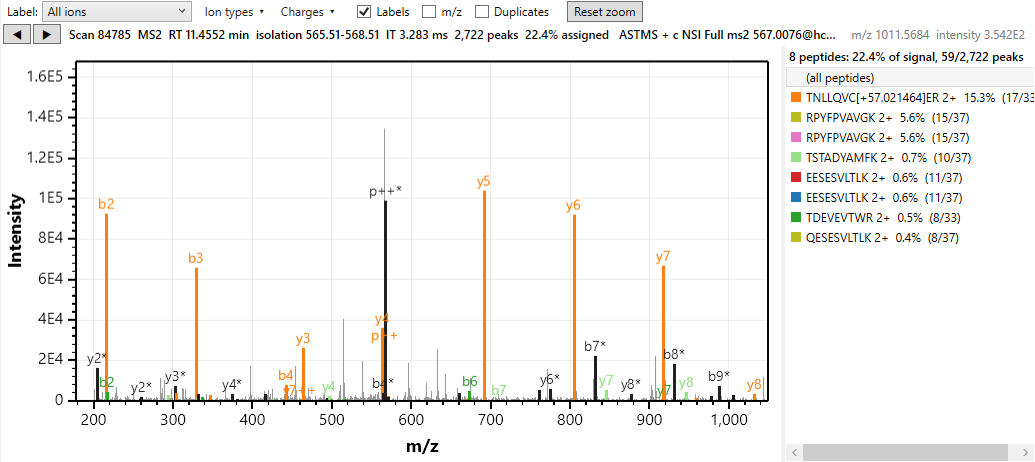
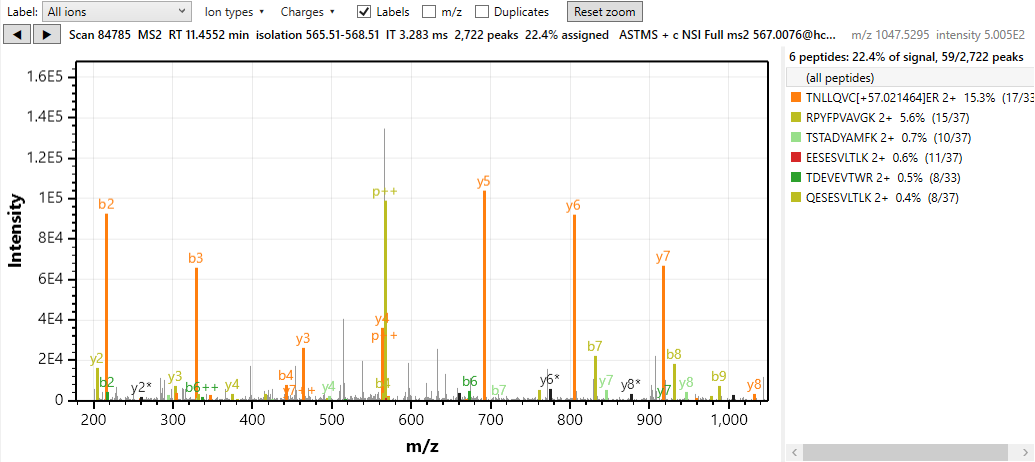
Retook the three screenshots that showed shared peptides twice
* Retook the hero, per-peptide MS2 and zoomed MS2 shots with each shared peptide
  listed once, and updated their captions
* Documented that a peptide listed under several proteins is labeled once

diff --git a/README.md b/README.md
@@ -24,7 +24,7 @@ lets you browse that file with every peak traced back to the peptide that explai
 *An Orbitrap Astral DIA run against a 69,000-precursor document, with every protein selected. Top: the
 MS1 XICs of all 60,161 peptides (66,209 precursor traces), zoomed to 10-12 min, each in its peptide's
 color; the highlighted trace is the one under the mouse. Bottom: the MS1 spectrum at the dashed line,
-where 716 document peptides explain 61% of the signal, each peak labeled by the peptide it belongs to.
+where 675 document peptides explain 61% of the signal, each peak labeled by the peptide it belongs to.
 Left: the document's proteins and the selection. Right: the properties of the file, spectrum and
 focused peptide.*
 
@@ -60,7 +60,7 @@ focused peptide.*
 ![Per-peptide XICs of fibrinogen gamma over the MS1 TIC, and an annotated MS2 spectrum](docs/images/xic-per-peptide-ms2.png)
 
 *Fibrinogen gamma's 36 peptides selected in Skyline: their MS2 fragment XICs (right axis) over the
-whole-run MS1 TIC. Clicking a trace at 11.46 min opened that DIA scan: eight document peptides share
+whole-run MS1 TIC. Clicking a trace at 11.46 min opened that DIA scan: six document peptides share
 the 3 m/z window, and TNLLQVC[+57]ER's b and y ions explain 15% of its signal. Black peaks marked `*`
 are claimed by more than one peptide.*
 
@@ -99,7 +99,8 @@ window). Click any cell to open that spectrum. Three values can be shown:
 - **Every document peptide in the spectrum is labeled**, its peaks colored by peptide. In MS1, a
   precursor isotope names its peptide and charge ("AGYVLHR 2+ M+2"); in MS2, fragments carry their ion
   names ("y7", "b4++"). A peak that matches more than one ion is marked with `*`, and the hover tooltip
-  lists every owner.
+  lists every owner. A peptide listed under several proteins is one peptide here: labeled, listed and
+  counted once.
 - **The legend** lists the peptides in the spectrum with the share of signal each explains. Click one
   to focus it and dim the rest.
 - **Choose what is labeled**, as in Skyline's spectrum graph: the document's transitions, the ions
